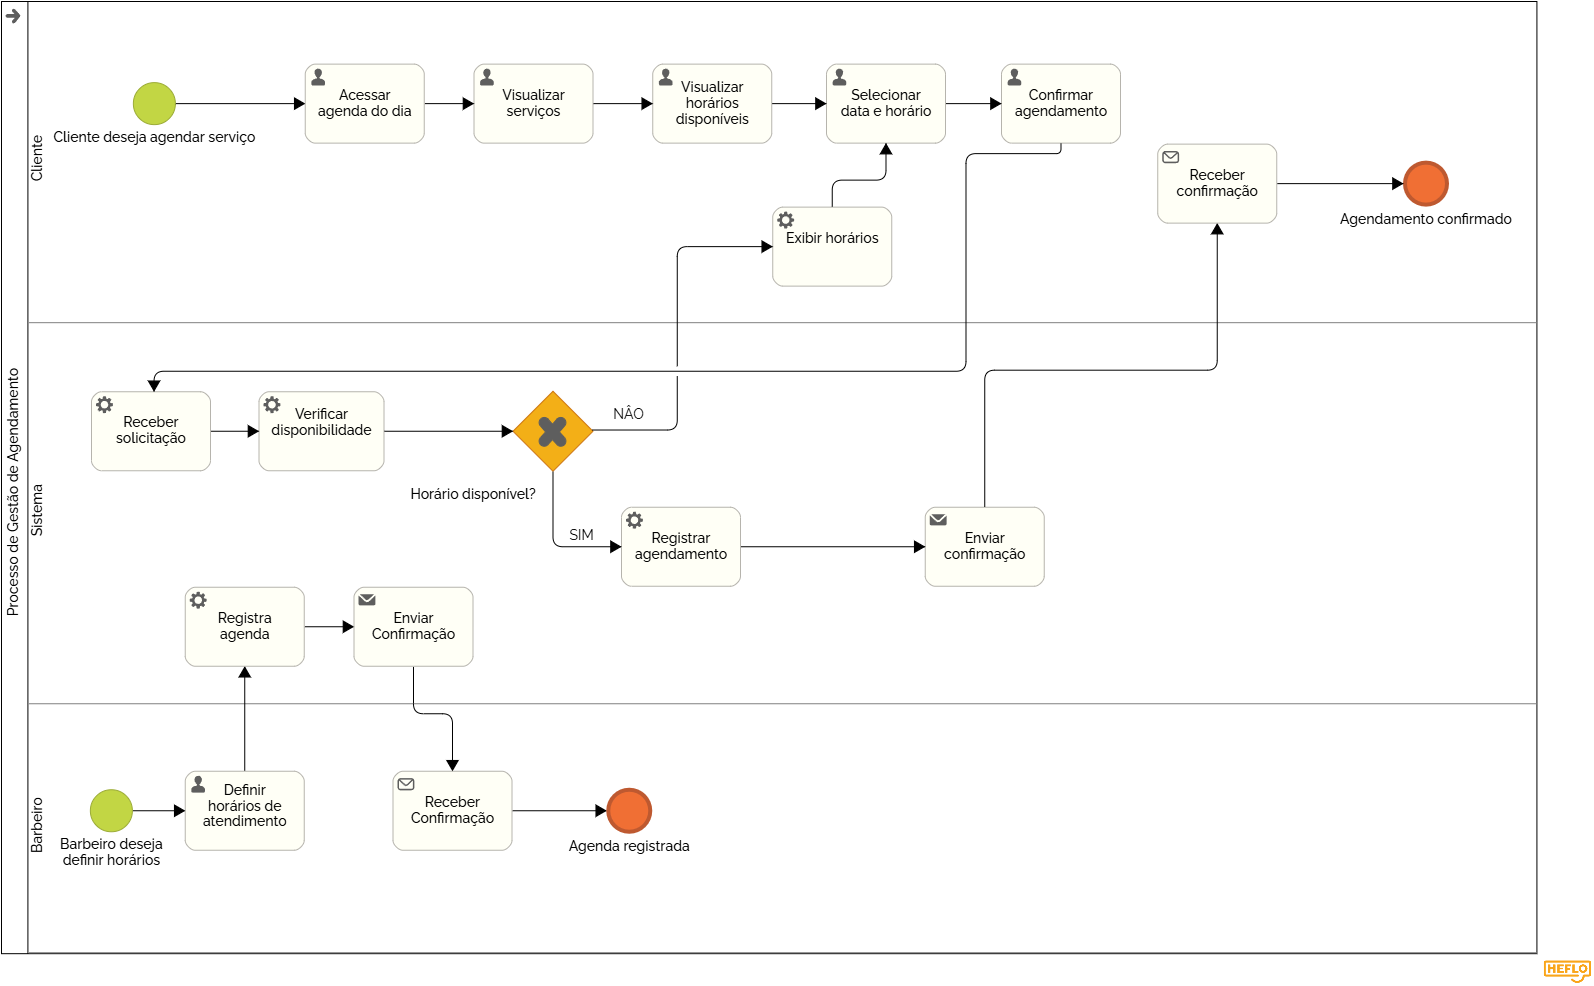
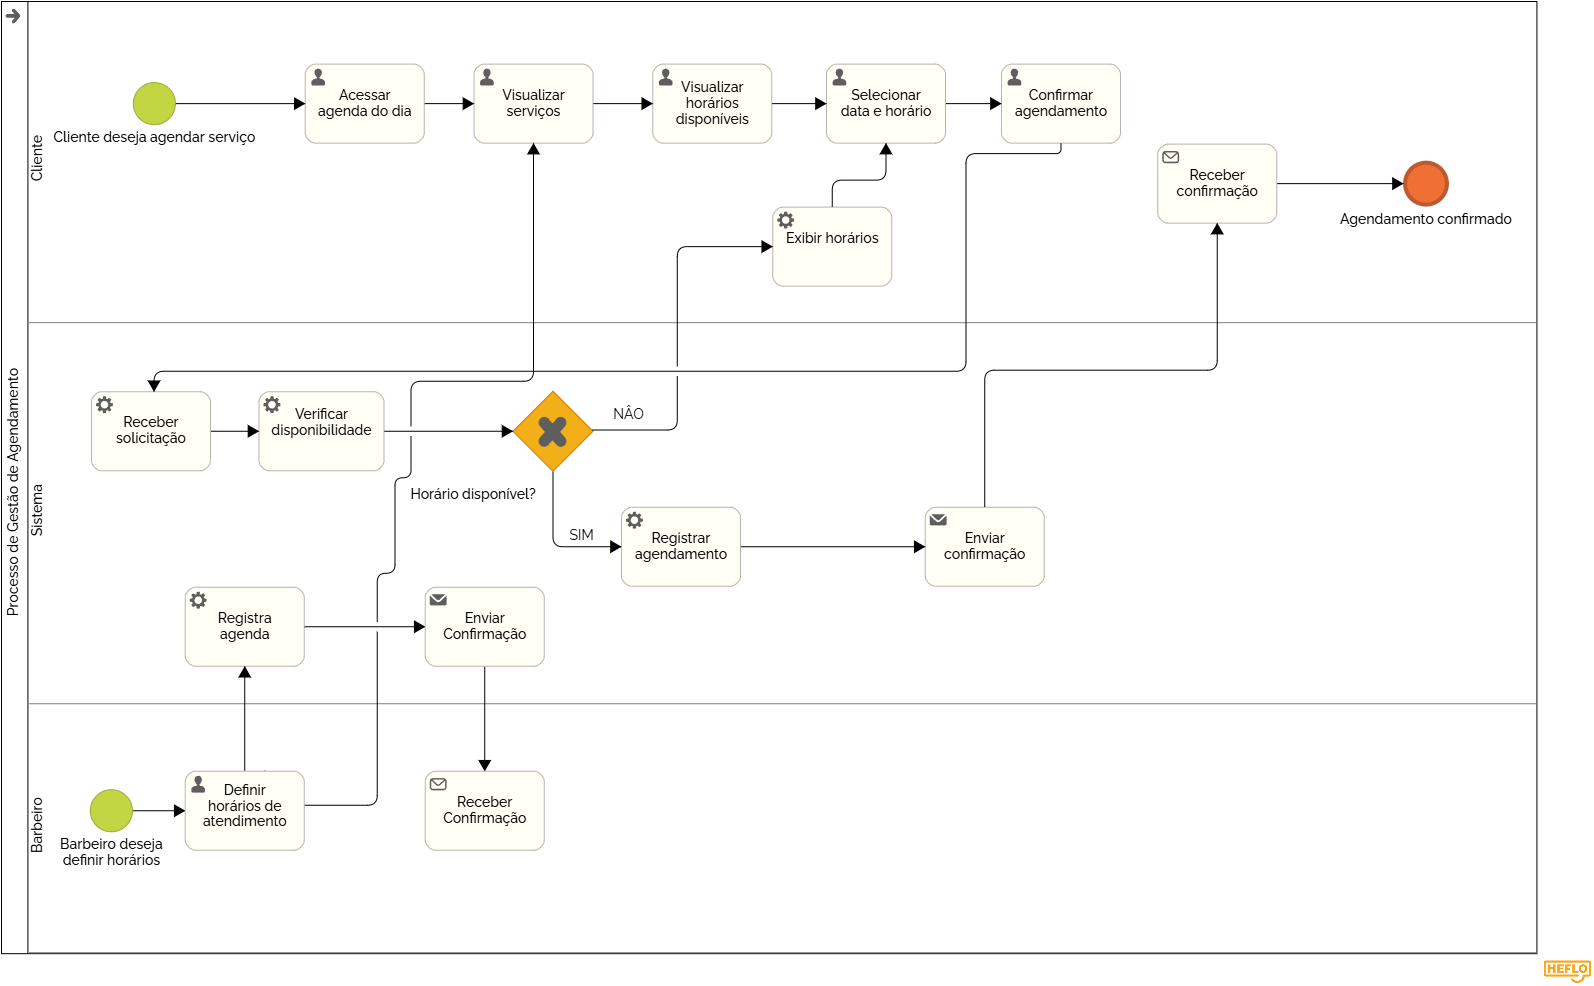
Correção da modelagem

Changed region(s): [[0.2459, 0.7606, 0.4304, 0.8824], [0.2152, 0.5781, 0.3381, 0.6694]]

diff --git a/docs/3.3.2-Processo-2–Gestão-do-Agendamento.md b/docs/3.3.2-Processo-2–Gestão-do-Agendamento.md
@@ -41,28 +41,9 @@ Os tipos de dados utilizados no processo são:
 | salvar configurações | Registra agenda | default  |
 | cancelar        | Fim do processo  | cancel   |
 
-**2 Registra agenda**
-| **Campo**    | **Tipo**       | **Restrições** | **Valor default** |
-| ---------    | -------------- | -------------- | ----------------- |
-| seleção de dias         | Caixa de texto | obrigatório    | automático        |
-| horário início     | Número | obrigatório    | automático        |
-| horário fim        | Número | obrigatório    | automático        |
-| intervalo        | Número | obrigatório    | automático        |
 
-| **Comandos** | **Destino**        | **Tipo** |
-| ------------ | ------------------ | -------- |
-| concluir     | Enviar confirmação | default  |
 
-**3 Enviar confirmação**
-| **Campo** | **Tipo**      | **Restrições** | **Valor default** |
-| --------- | ------------- | -------------- | ----------------- |
-| mensagem  | Área de texto | obrigatório    | automático        |
-
-| **Comandos** | **Destino**     | **Tipo** |
-| ------------ | --------------- | -------- |
-| finalizar    | Fim do processo | default  |
-
-**4 Agendar**
+**2 Agendar**
 | **Campo**             | **Tipo** | **Restrições**  | **Valor default** |
 | --------------------- | -------- | --------------- | ----------------- |
 | serviço                 | Seleção múltipla    | obrigatório     | -       |
@@ -70,10 +51,10 @@ Os tipos de dados utilizados no processo são:
 
 | **Comandos** | **Destino**              | **Tipo** |
 | ------------ | ------------------------ | -------- |
-| continuar   |seleciionar data e horário| Link  |
+| continuar   |selecionar data e horário| Link  |
 
 
-**5 Selecionar data e horário**
+**3 Selecionar data e horário**
 | **Campo**       | **Tipo** | **Restrições**        | **Valor default** |
 | ---------       | -------- | --------------------- | ----------------- |
 | data            | Data     | obrigatória           | -                 |
@@ -96,53 +77,6 @@ Os tipos de dados utilizados no processo são:
 | ------------            | ---------------------------- | -------- |
 | Confirmar Agendamento   | Fim do processo              | default  |
 | voltar                  | Selecionar data e horário    | Link   |
-
-**7 Receber solicitação**
-| **Campo** | **Tipo** | **Restrições**            | **Valor default** |
-| --------- | -------- | ------------------------- | ----------------- |
-| agenda    | Tabela   | atualização em tempo real | automático        |
-| validação    | Sistema  | campos obrigatórios preenchidos | automático        |
-
-| **Comandos** | **Destino**     | **Tipo** |
-| ------------ | --------------- | -------- |
-| verificar disponibilidade    |Verificar Disponibilidade| automático   |
-
-
-**8 Verificar disponibilidade**
-| **Campo** | **Tipo** | **Restrições**            | **Valor default** |
-| --------- | -------- | ------------------------- | ----------------- |
-| agenda    | Tabela   | atualização em tempo real | automático        |
-
-| **Comandos** | **Destino**                  | **Tipo** |
-| ------------ | ---------------------------- | -------- |
-| disponível   | Registrar agendamento        | default  |
-| indisponível | Selecionar data e horário    | Link   |
-
-
-**9 Registrar agendamento**
-| **Campo**    | **Tipo**           | **Restrições** | **Valor default** |
-| ---------    | --------------     | -------------- | ----------------- |
-| cliente      | Caixa de texto     | obrigatório    | automático        |
-|profissional     | Caixa de texto     | obrigatório    | automático        |
-| serviço      | Caixa de texto     | obrigatório    | automático        |
-| data         | Data               | obrigatório    | automático        |
-| horário      | Hora               | obrigatório    | automático        |
-| preço     | Hora               | obrigatório    | automático        |
-
-| **Comandos** | **Destino**        | **Tipo** |
-| ------------ | ------------------ | -------- |
-| concluir     | Enviar confirmação | default  |
-
-**10 Enviar confirmação**
-| **Campo** | **Tipo**      | **Restrições** | **Valor default** |
-| --------- | ------------- | -------------- | ----------------- |
-| mensagem  | Área de texto | obrigatório    | automático        |
-
-| **Comandos** | **Destino**     | **Tipo** |
-| ------------ | --------------- | -------- |
-| finalizar    | Fim do processo | default  |
-
-
 
 
 ##### 3.3.2.3 Wireframes (user tasks)

diff --git a/docs/3.3.3-Processo-3–Gestão-do-Financeira.md b/docs/3.3.3-Processo-3–Gestão-do-Financeira.md
@@ -3,7 +3,15 @@ O processo de gestão financeira tem como objetivo registrar e controlar os valo
 
 No cenário proposto (TO BE),após o barbeiro concluir o serviço no sistema,ele registra automaticamente os serviços realizados com seus valores, permitindo que o Barbeiro tenha uma visão clara do faturamento diário.Esse processo contribui para melhor controle financeiro, redução de erros e maior organização do negócio.
 
-O fluxo é iniciado na raia do Cliente pelo evento "Atendimento finalizado", que leva à tarefa manual de "Realizar pagamento". Simultaneamente, na raia do Barbeiro, o profissional executa a tarefa de "Informar serviço realizado". Ambas as ações convergem para a raia do Sistema, onde a tarefa automática de "Registrar pagamento" é disparada. Após o registro, o sistema executa a atualização dos valores na tarefa "Atualizar caixa". O processo se encerra na própria raia do Sistema com o evento final "Pagamento registrado", indicando que a transação financeira foi concluída com sucesso.
+O fluxo é iniciado na raia do Barbeiro com o acesso ao painel financeiro para conferência dos indicadores de desempenho do dashboard.Caso o usuário identifique que os dados estão atualizados, o processo é finalizado apenas com a consulta.
+
+No entanto, havendo necessidade de processar novos registros, o usuário aciona o comando "Atualizar".Nesse momento, o fluxo passa para a raia do Sistema, que de forma automática e simultânea, realiza três ações críticas:
+Recalcula as métricas financeiras dos cards superiores;
+Atualiza os status dos registros na tabela de atendimentos;
+Plota os novos dados no gráfico de evolução semanal.
+
+O sistema consolida essas informações e apresenta o dashboard atualizado ao usuário, encerrando o ciclo com a garantia de que os dados financeiros refletem o estado atual do negócio.
+
 
 ##### 3.3.3.1  Modelagem BPMN
 ![`Processo de Gestão Financeira Diagrama`](images/ProcessodeGestãoFinanceiraDiagrama.png)
@@ -22,37 +30,18 @@ Os tipos de dados utilizados no processo são:
 * Seleção única: campo com opções mutuamente exclusivas
 * Seleção múltipla: campo com múltiplas opções selecionáveis
 
-**1 Informar serviço realizado**
+**1 Acessar painel financeiro**
 | **Campo** | **Tipo**       | **Restrições** | **Valor default** |
 | --------- | -------------- | -------------- | ----------------- |
-| serviço realizado   | lista          | obrigatório    | -                 |
-| valor  | Número         | obrigatório    | -                 |
-| forma de pagamento   | Seleção única          | obrigatório    | -                 |
-| cliente   | Caixa de texto         | obrigatório    | -                 |
+| total recebido  | Número          | -    | -                 |
+| atendimentos  | Número         | -    | -                 |
+| ticket médio  | Número         | -    | -                 |
+| atendimentos recentes  | Lista         | -    | -                 |
 
 | **Comandos**              | **Destino**     | **Tipo** |
 | ------------              | --------------- | -------- |
-| confirmar pagamento       | Registrar pagamento | automático  |
-
-
-**2 Registrar pagamento**
-| **Campo** | **Tipo** | **Restrições**                  | **Valor default** |
-| --------- | -------- | ------------------------------- | ----------------- |
-| validação | Sistema  | campos obrigatórios preenchidos | automático        |
-
-| **Comandos** | **Destino**     | **Tipo** |
-| ------------ | --------------- | -------- |
-| atualizar       | Atualizar caixa | automático  |
-
-
-**3 Atualizar caixa**
-| **Campo**      | **Tipo** | **Restrições** | **Valor default** |
-| ------------   | -------- | -------------- | ----------------- |
-| total recebido | Número   | automático     | atualizado        |
-
-| **Comandos** | **Destino**     | **Tipo** |
-| ------------ | --------------- | -------- |
-| finalizar    | Fim do processo | default  |
+| atualizar       | solicitar atualização | automático  |
+|cancelar      | gestão financeira | automático  |
 
 
 ##### 3.3.3.3 Wireframes (user tasks)

diff --git a/docs/3.3.1-Processo-Gestão-do-Cadastro-do-Cliente.md b/docs/3.3.1-Processo-Gestão-do-Cadastro-do-Cliente.md
@@ -54,49 +54,6 @@ Os tipos de dados utilizados no processo são:
 | cadastrar    | Acessar Sistema | link     |
 | cancelar    | Acessar Sistema| link     |
 
-**3 Validar dados**
-| **Campo** | **Tipo** | **Restrições**                  | **Valor default** |
-| --------- | -------- | ------------------------------- | ----------------- |
-| validação | Sistema  | campos obrigatórios preenchidos | automático        |
-
-| **Comandos** | **Destino**     | **Tipo** |
-| ------------ | --------------- | -------- |
-| válido       | Salvar cadastro |   |
-| inválido     | Novo Cliente  |    |
-
-**4 Corrigir Dados**
-| **Campo** | **Tipo**      | **Restrições** | **Valor default** |
-| --------- | ------------- | -------------- | ----------------- |
-| mensagem  | Área de texto | obrigatório    | automático        |
-
-| **Comandos** | **Destino**                | **Tipo** |
-| ------------ | ---------------            | -------- |
-| voltar       | Novo Cliente | default  |
-
-**6 Salvar Cadastro**
-| **Campo**    | **Tipo**       | **Restrições** | **Valor default** |
-| ---------    | -------------- | -------------- | ----------------- |
-| nome         | Caixa de texto | obrigatório    | automático        |
-| telefone     | Caixa de texto | obrigatório    | automático        |
-| email        | Caixa de texto | obrigatório    | automático        |
-| senha        | Caixa de texto | obrigatório    | automático        |
-
-| **Comandos** | **Destino**        | **Tipo** |
-| ------------ | ------------------ | -------- |
-| concluir     | Enviar confirmação | default  |
-
-**7 Enviar confirmação**
-| **Campo** | **Tipo**      | **Restrições** | **Valor default** |
-| --------- | ------------- | -------------- | ----------------- |
-| mensagem  | Área de texto | obrigatório    | automático        |
-
-| **Comandos** | **Destino**     | **Tipo** |
-| ------------ | --------------- | -------- |
-| finalizar    | Fim do processo | default  |
-
-
-
-
 ##### 3.3.1.3 Wireframes (user tasks) 
 ![`wireframe Cadastro`](images/wireframeCadastro.png)
 ![`wireframe Cadastro`](images/wireframeCadastro2.png)

diff --git a/docs/3.3.5-Processo-5–Gestão-do-Estoque-de-Material-da-Barbearia.md b/docs/3.3.5-Processo-5–Gestão-do-Estoque-de-Material-da-Barbearia.md
@@ -33,35 +33,9 @@ Os tipos de dados utilizados no processo são:
 | -------------   | ----------------- | -------- |
 | registrar baixa | receber atualização de estoque | Link     |
 
-**2 Receber atualização de estoque**
-| **Campo**        | **Tipo** | **Restrições** | **Valor default** |
-| ---------------- | -------- | -------------- | ----------------- |
-| quantidade atual | Tabela  | automático     | -       |
 
-| **Comandos** | **Destino**           | **Tipo** |
-| ------------ | --------------------- | -------- |
-| verificar    | Gateway estoque baixo | default  |
 
-**2 Gateway estoque baixo**
-| **Campo**        | **Tipo** | **Restrições** | **Valor default** |
-| ---------------- | -------- | -------------- | ----------------- |
-| quantidade atual | Sistema | automático     | -       |
-
-| **Comandos** | **Destino**     | **Tipo** |
-| ------------ | --------------- | -------- |
-| sim       | gerar alerta |  - |
-| não    | fim  |  -  |
-
-**3 Gerar alerta de reposição**
-| **Campo**       | **Tipo**      | **Restrições** | **Valor default** |
-| --------------- | ------------- | -------------- | ----------------- |
-| mensagem alerta | Área de texto | obrigatório    | automático        |
-
-| **Comandos** | **Destino**           | **Tipo** |
-| ------------ | --------------------- | -------- |
-| notificar    | registrar reposição | default  |
-
-**4 Registrar reposição**
+**2 Registrar reposição**
 | **Campo**             | **Tipo**       | **Restrições** | **Valor default** |
 | --------------------- | -------------- | -------------- | ----------------- |
 | material              |Lista | obrigatório    | -                 |

diff --git a/docs/3.3.4-Processo-4–Gestão-da-Avaliação-do-Serviço.md b/docs/3.3.4-Processo-4–Gestão-da-Avaliação-do-Serviço.md
@@ -36,26 +36,7 @@ Os tipos de dados utilizados no processo são:
 | enviar avaliação  |receber avaliação | Link  |
 
 
-
-**2 Receber avaliação**
-| **Campo** | **Tipo** | **Restrições** | **Valor default** |
-| --------- | -------- | -------------- | ----------------- |
-| avaliação | Tabela   | obrigatório    | automático        |
-
-| **Comandos** | **Destino**           | **Tipo** |
-| ------------ | --------------------- | -------- |
-| registrar      | enviar notificação      | automático  |
-
-**3 Enviar notificação**
-| **Campo** | **Tipo** | **Restrições** | **Valor default** |
-| --------- | -------- | -------------- | ----------------- |
-| mensagem  | Área de texto | obrigatório    | automático        |
-
-| **Comandos** | **Destino**           | **Tipo** |
-| ------------ | --------------------- | -------- |
-| enviar     |avaliações     | automático  |
-
-**4 Visualizar avaliações**
+**2 Visualizar avaliações**
 | **Campo**                       | **Tipo** | **Restrições**  | **Valor default** |
 | -------------------             | -------- | --------------- | ----------------- |
 | últimas avaliações              | Tabela   | somente leitura | automático        |
